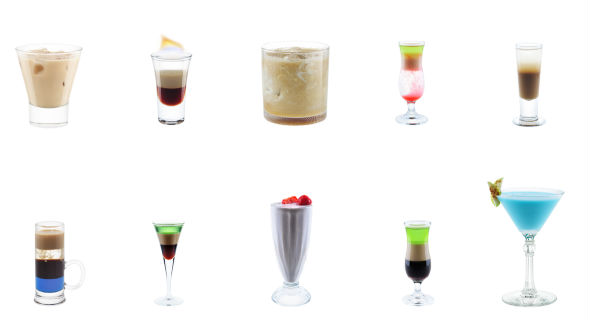
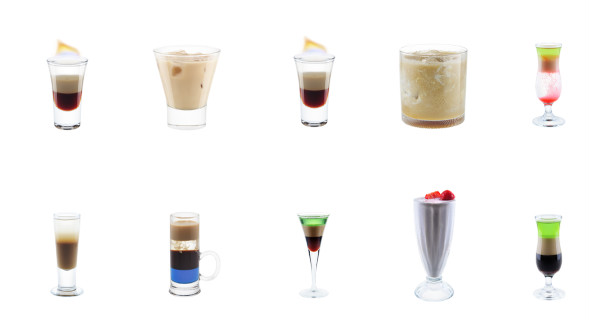
content update

diff --git a/htdocs/blog/cocktail-rating-25-03-2012/cocktail-rating-25-03-2012.html b/htdocs/blog/cocktail-rating-25-03-2012/cocktail-rating-25-03-2012.html
@@ -16,35 +16,35 @@
 <div class="post">
 	<h1 class="title" data-title="Коктейльные рейтинги: Топ 10 сливочных">Коктейльные рейтинги: Топ 10 сливочных</h1>
 	<div class="body">
-		<p><b>10 место:</b>  <a href="/cocktail/blue_temptation/">Голубое искушение — 1998</a></p>
-<p><div class="image-box"><a href="/cocktail/blue_temptation/"><img src="/blog/cocktail-rating-25-03-2012/i/11.png" class="image"/></a></div></p>
-<p><hr></p>
-<p><b>9 место:</b> <a href="/cocktail/seducer/">Соблазнитель — Соблазняй!</a></p>
+		<p><b>10 место:</b> <a href="/cocktail/seducer/">Соблазнитель — Соблазняй!</a></p>
 <p><div class="image-box"><a href="/cocktail/seducer/"><img src="/blog/cocktail-rating-25-03-2012/i/10.png" class="image"/></a></div></p>
 <p><hr></p>
-<p><b>8 место:</b> <a href="/cocktail/strawberry_milkshake/">Клубничный милкшейк — Верь в сказку!</a></p>
+<p><b>9 место:</b> <a href="/cocktail/strawberry_milkshake/">Клубничный милкшейк — Верь в сказку!</a></p>
 <p><div class="image-box"><a href="/cocktail/strawberry_milkshake/"><img src="/blog/cocktail-rating-25-03-2012/i/9.png" class="image"/></a></div></p>
 <p><hr></p>
-<p><b>7 место:</b>  <a href="/cocktail/nasty_slush/">Противная слякоть — Всё пройдет!</a></p>
+<p><b>8 место:</b>  <a href="/cocktail/nasty_slush/">Противная слякоть — Всё пройдет!</a></p>
 <p><div class="image-box"><a href="/cocktail/nasty_slush/"><img src="/blog/cocktail-rating-25-03-2012/i/8.png" class="image"/></a></div></p>
 <p><hr></p>
-<p><b>6 место:</b>  <a href="/cocktail/lexus/">Лексус — Устрой тест-драйв!</a></p>
+<p><b>7 место:</b>  <a href="/cocktail/lexus/">Лексус — Устрой тест-драйв!</a></p>
 <p><div class="image-box"><a href="/cocktail/lexus/"><img src="/blog/cocktail-rating-25-03-2012/i/7.png" class="image"/></a></div></p>
 <p><hr></p>
-<p><b>5 место:</b> <a href="/cocktail/bowling_in_tu-154/">Боулинг в ТУ-154 — Угости стюардессу!</a></p>
+<p><b>6 место:</b> <a href="/cocktail/bowling_in_tu-154/">Боулинг в ТУ-154 — Угости стюардессу!</a></p>
 <p><div class="image-box"><a href="/cocktail/bowling_in_tu-154/"><img src="/blog/cocktail-rating-25-03-2012/i/6.png" class="image"/></a></div></p>
 <p><hr></p>
-<p><b>4 место:</b> <a href="/cocktail/hiroshima/">Хиросима — Зум-зум!</a></p>
+<p><b>5 место:</b> <a href="/cocktail/hiroshima/">Хиросима — Зум-зум!</a></p>
 <p><div class="image-box"><a href="/cocktail/hiroshima/"><img src="/blog/cocktail-rating-25-03-2012/i/5.png" class="image"/></a></div></p>
 <p><hr></p>
-<p><b>3 место:</b>  <a href="/cocktail/fashion_orgasm/">Модный оргазм — Дайте два!</a></p>
+<p><b>4 место:</b>  <a href="/cocktail/fashion_orgasm/">Модный оргазм — Дайте два!</a></p>
 <p><div class="image-box"><a href="/cocktail/fashion_orgasm/"><img src="/blog/cocktail-rating-25-03-2012/i/4.png" class="image"/></a></div></p>
 <p><hr></p>
-<p><b>2 место:</b> <a href="/cocktail/t-55/">Т-55 — Дай жару!</a></p>
+<p><b>3 место:</b> <a href="/cocktail/t-55/">Т-55 — Дай жару!</a></p>
 <p><div class="image-box"><a href="/cocktail/t-55/"><img src="/blog/cocktail-rating-25-03-2012/i/3.png" class="image"/></a></div></p>
 <p><hr></p>
-<p><b>1 место:</b> <a href="/cocktail/white_russian/">Белый русский — Посмотри кино!</a></p>
+<p><b>2 место:</b> <a href="/cocktail/white_russian/">Белый русский — Посмотри кино!</a></p>
 <p><div class="image-box"><a href="/cocktail/white_russian/"><img src="/blog/cocktail-rating-25-03-2012/i/2.png" class="image"/></a></div></p>
+<p><hr></p>
+<p><b>1 место:</b> <a href="/cocktail/b-52/">Б-52 — Взорви танцпол!</a></p>
+<p><div class="image-box"><a href="/cocktail/b-52/"><img src="/blog/cocktail-rating-25-03-2012/i/11.png" class="image"/></a></div></p>
 <p><hr></p>
 <p><i>Рейтинг составлен по данным коктейльного сайта <a href="/">Inshaker</a>. Февраль 2012.</i>
 </p>
